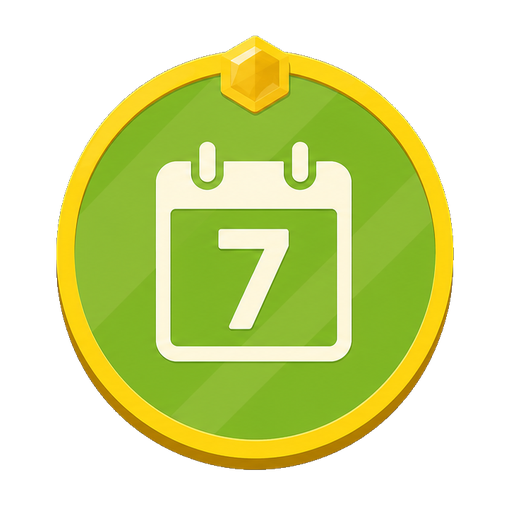
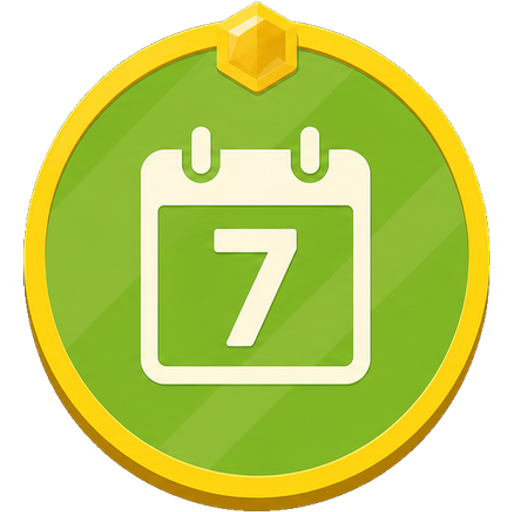
Centre and size-normalise all badge art (#74)
## The bug

Badges in the achievement trail render off-centre and at inconsistent
sizes — most visibly the purple **First Pika Login** badge and the
**Ready Early** badge, which lean in opposite directions when sitting
next to each other.

## Root cause

`achievements.tsx` renders each badge into a fixed circular slot, and
`styles.css` sizes it with `object-fit: contain`. That frames the image
by its **canvas**, not by the artwork inside it — so however the art
sits in its own PNG is exactly how it lands on screen. Measuring the
alpha bounding box of all sixteen badge PNGs on `main`:

| Badge | Horizontal offset | Vertical offset | Canvas fill |
|---|---|---|---|
| `badge-first-classroom-login-v1.png` | **−2.54%** | −0.59% | 85.16% |
| `badge-ready-early-v1.png` | **+2.05%** | −0.59% | 85.16% |
| `badge-checkin-7-day-v1.png` | −0.10% | +2.44% | 83.40% |
| `badge-lifetime-xp-1000-v1.png` | +2.44% | −2.54% | 83.40% |
| `badge-semester-halfway-v1.png` | 0% | −2.34% | **79.69%** |
| `badge-on-time-finish.png` | 0% | 0% | **100%** |

Three separate defects:

1. **Horizontal drift** — the two badges the report called out sit 2.5%
left and 2.1% right of centre, so the gap between them is ~4.6% of the
slot. Every other badge is within ±0.2%.
2. **Vertical drift** — offsets fall into two clusters, +2.4% and −2.5%.
3. **Size drift** — artwork fills anywhere from 79.7% to 85.2% of its
canvas. `badge-on-time-finish.png` is the real outlier: a 1254×1254
[…]

diff --git a/apps/web/src/lib/badge-art-framing.test.ts b/apps/web/src/lib/badge-art-framing.test.ts
@@ -1,0 +1,297 @@
+import assert from "node:assert/strict";
+import { readdirSync, readFileSync } from "node:fs";
+import { dirname, join } from "node:path";
+import test from "node:test";
+import { fileURLToPath } from "node:url";
+import { inflateSync } from "node:zlib";
+
+/**
+ * Badge art is rendered by the widget into a fixed *circular* slot with
+ * `object-fit: contain`, so the browser frames each badge by its canvas, not by
+ * the artwork inside it. Any badge whose artwork is off-centre in its own
+ * canvas, or that occupies a different share of it, renders visibly misaligned
+ * or mis-sized next to its neighbours in the achievement trail.
+ *
+ * Because the slot is a circle, what has to fill it is the artwork's enclosing
+ * circle rather than its bounding box. Sizing by the box leaves every disc
+ * ringed by slot background; sizing the box to the whole canvas would instead
+ * push the corners of the non-circular badges past the slot and clip them.
+ * Pinning the enclosing circle covers both: a disc meets the slot edge exactly,
+ * and a shape with protrusions touches it at its extremes with nothing cut off.
+ *
+ * These tests pin the framing contract every badge PNG must satisfy so new art
+ * cannot reintroduce that drift.
+ */
+
+// Resolved from this file rather than the process cwd, so the suite runs the
+// same way however it is invoked - `pnpm test`, turbo, or node pointed straight
+// at this one file from anywhere in the repo.
+const BADGE_DIR = join(
+  dirname(fileURLToPath(import.meta.url)),
+  "..",
+  "..",
+  "public",
+  "assets",
+  "badges",
+);
+
+/** Canonical badge canvas: square, and the same for every badge. */
+const CANVAS = 512;
+/** The artwork's enclosing circle must fill the canvas, matching the slot. */
+const TARGET_RADIUS = CANVAS / 2;
+/** Rounding slack, in canvas pixels, for the artwork's centre point. */
+const CENTRE_TOLERANCE_PX = 1;
+/**
+ * Slack, in canvas pixels, for the radius target. Slightly looser than
+ * centring: resampling spreads the artwork's outer edge by a fraction of a
+ * pixel either way, so the measured radius lands just above or below the mark.
+ */
+const RADIUS_TOLERANCE_PX = 2;
+/** Alpha above which a pixel counts as artwork rather than empty margin. */
+const ALPHA_THRESHOLD = 8;
+
+type DecodedAlpha = {
+  width: number;
+  height: number;
+  alpha: Uint8Array;
+};
+
+/**
+ * Minimal PNG reader: enough to recover the alpha channel of a non-interlaced
+ * 8-bit image. Kept local to the test so verifying art needs no image
+ * dependency in the app.
+ */
+function decodePngAlpha(buffer: Buffer): DecodedAlpha {
+  let offset = 8;
+  let width = 0;
+  let height = 0;
+  let bitDepth = 0;
+  let colorType = 0;
+  let interlace = 0;
+  const idat: Buffer[] = [];
+
+  while (offset < buffer.length) {
+    const length = buffer.readUInt32BE(offset);
+    const type = buffer.toString("ascii", offset + 4, offset + 8);
+    const data = buffer.subarray(offset + 8, offset + 8 + length);
+    if (type === "IHDR") {
+      width = data.readUInt32BE(0);
+      height = data.readUInt32BE(4);
+      bitDepth = data[8];
+      colorType = data[9];
+      interlace = data[12];
+    } else if (type === "IDAT") {
+      idat.push(data);
+    } else if (type === "IEND") {
+      break;
+    }
+    offset += 12 + length;
+  }
+
+  assert.equal(bitDepth, 8, "badge art must be 8 bits per channel");
+  assert.equal(interlace, 0, "badge art must not be interlaced");
+  assert.equal(colorType, 6, "badge art must be RGBA (colour type 6)");
+
+  const channels = 4;
+  const raw = inflateSync(Buffer.concat(idat));
+  const stride = width * channels;
+  // Each scanline is one filter byte plus its pixels. Check up front: a short
+  // stream would otherwise unfilter into NaN and store as transparent black,
+  // surfacing later as a confusing framing failure rather than a corrupt file.
+  assert.equal(
+    raw.length,
+    height * (stride + 1),
+    "badge art has a truncated or corrupt pixel stream",
+  );
+  const pixels = Buffer.alloc(height * stride);
+
+  let read = 0;
+  for (let y = 0; y < height; y++) {
+    const filter = raw[read];
+    read += 1;
+    const line = raw.subarray(read, read + stride);
+    read += stride;
+    const row = pixels.subarray(y * stride, (y + 1) * stride);
+    const prior = y > 0 ? pixels.subarray((y - 1) * stride, y * stride) : null;
+
+    for (let i = 0; i < stride; i++) {
+      const left = i >= channels ? row[i - channels] : 0;
+      const up = prior ? prior[i] : 0;
+      const upLeft = prior && i >= channels ? prior[i - channels] : 0;
+      let value = line[i];
+      if (filter === 1) {
+        value += left;
+      } else if (filter === 2) {
+        value += up;
+      } else if (filter === 3) {
+        value += (left + up) >> 1;
+      } else if (filter === 4) {
+        const predictor = left + up - upLeft;
+        const dLeft = Math.abs(predictor - left);
+        const dUp = Math.abs(predictor - up);
+        const dUpLeft = Math.abs(predictor - upLeft);
+        value +=
+          dLeft <= dUp && dLeft <= dUpLeft ? left : dUp <= dUpLeft ? up : upLeft;
+      }
+      row[i] = value & 0xff;
+    }
+  }
+
+  const alpha = new Uint8Array(width * height);
+  for (let i = 0; i < width * height; i++) {
+    alpha[i] = pixels[i * channels + 3];
+  }
+  return { width, height, alpha };
+}
+
+/** Bounding box of the visible artwork within the canvas. */
+function artworkBounds({ width, height, alpha }: DecodedAlpha) {
+  let minX = width;
+  let minY = height;
+  let maxX = -1;
+  let maxY = -1;
+  for (let y = 0; y < height; y++) {
+    for (let x = 0; x < width; x++) {
+      if (alpha[y * width + x] > ALPHA_THRESHOLD) {
+        if (x < minX) minX = x;
+        if (x > maxX) maxX = x;
+        if (y < minY) minY = y;
+        if (y > maxY) maxY = y;
+      }
+    }
+  }
+  assert.ok(maxX >= 0, "badge art must contain visible pixels");
+  return { minX, minY, maxX, maxY };
+}
+
+/**
+ * Distance from the centre of the canvas to the furthest visible pixel - the
+ * radius of the circle the artwork occupies, which is what the circular slot
+ * has to accommodate.
+ */
+function enclosingRadius({ width, height, alpha }: DecodedAlpha) {
+  const centreX = (width - 1) / 2;
+  const centreY = (height - 1) / 2;
+  let radius = 0;
+  for (let y = 0; y < height; y++) {
+    for (let x = 0; x < width; x++) {
+      if (alpha[y * width + x] <= ALPHA_THRESHOLD) continue;
+      const distance = Math.hypot(x - centreX, y - centreY);
+      if (distance > radius) radius = distance;
+    }
+  }
+  assert.ok(radius > 0, "badge art must contain visible pixels");
+  return radius;
+}
+
+/**
+ * Connected runs of visible pixels, largest first. Eight-connected, so a shape
+ * joined only at a diagonal still counts as one piece.
+ */
+function connectedComponents({ width, height, alpha }: DecodedAlpha) {
+  const seen = new Uint8Array(width * height);
+  const components: {
+    size: number;
+    minX: number;
+    minY: number;
+    maxX: number;
+    maxY: number;
+  }[] = [];
+
+  for (let start = 0; start < width * height; start++) {
+    if (seen[start] || alpha[start] <= ALPHA_THRESHOLD) continue;
+    const stack = [start];
+    seen[start] = 1;
+    let size = 0;
+    let minX = width;
+    let minY = height;
+    let maxX = -1;
+    let maxY = -1;
+
+    while (stack.length) {
+      const index = stack.pop() as number;
+      const x = index % width;
+      const y = (index / width) | 0;
+      size += 1;
+      if (x < minX) minX = x;
+      if (x > maxX) maxX = x;
+      if (y < minY) minY = y;
+      if (y > maxY) maxY = y;
+      for (let dy = -1; dy <= 1; dy++) {
+        for (let dx = -1; dx <= 1; dx++) {
+          const nx = x + dx;
+          const ny = y + dy;
+          if (nx < 0 || ny < 0 || nx >= width || ny >= height) continue;
+          const next = ny * width + nx;
+          if (seen[next] || alpha[next] <= ALPHA_THRESHOLD) continue;
+          seen[next] = 1;
+          stack.push(next);
+        }
+      }
+    }
+    components.push({ size, minX, minY, maxX, maxY });
+  }
+
+  return components.sort((a, b) => b.size - a.size);
+}
+
+const badgeFiles = readdirSync(BADGE_DIR)
+  .filter((name) => name.endsWith(".png"))
+  .sort();
+
+test("there is badge art to check", () => {
+  assert.ok(badgeFiles.length > 0, `no badge PNGs found in ${BADGE_DIR}`);
+});
+
+for (const file of badgeFiles) {
+  test(`${file} is framed on the canonical badge canvas`, () => {
+    const image = decodePngAlpha(readFileSync(join(BADGE_DIR, file)));
+    assert.equal(image.width, CANVAS, `${file} canvas width`);
+    assert.equal(image.height, CANVAS, `${file} canvas height`);
+  });
+
+  test(`${file} artwork is centred in its canvas`, () => {
+    const image = decodePngAlpha(readFileSync(join(BADGE_DIR, file)));
+    const bounds = artworkBounds(image);
+    const offsetX = (bounds.minX + bounds.maxX) / 2 - (image.width - 1) / 2;
+    const offsetY = (bounds.minY + bounds.maxY) / 2 - (image.height - 1) / 2;
+    assert.ok(
+      Math.abs(offsetX) <= CENTRE_TOLERANCE_PX,
+      `${file} artwork is ${offsetX.toFixed(1)}px off centre horizontally`,
+    );
+    assert.ok(
+      Math.abs(offsetY) <= CENTRE_TOLERANCE_PX,
+      `${file} artwork is ${offsetY.toFixed(1)}px off centre vertically`,
+    );
+  });
+
+  test(`${file} has no artwork detached from its body`, () => {
+    const image = decodePngAlpha(readFileSync(join(BADGE_DIR, file)));
+    const [body, ...rest] = connectedComponents(image);
+    const detached = rest.filter(
+      (component) =>
+        component.maxX < body.minX ||
+        component.minX > body.maxX ||
+        component.maxY < body.minY ||
+        component.minY > body.maxY,
+    );
+    assert.deepEqual(
+      detached.map(
+        (c) => `${c.maxX - c.minX + 1}x${c.maxY - c.minY + 1} at ${c.minX},${c.minY}`,
+      ),
+      [],
+      `${file} has artwork sitting outside its body, which drags the bounding box out and shrinks the badge`,
+    );
+  });
+
+  test(`${file} artwork fills the circular slot`, () => {
+    const image = decodePngAlpha(readFileSync(join(BADGE_DIR, file)));
+    const radius = enclosingRadius(image);
+    assert.ok(
+      Math.abs(radius - TARGET_RADIUS) <= RADIUS_TOLERANCE_PX,
+      `${file} artwork reaches ${radius.toFixed(1)}px from centre, expected ` +
+        `${TARGET_RADIUS}px (±${RADIUS_TOLERANCE_PX}). Short of it leaves a ring of ` +
+        `slot background around the badge; past it, the slot clips the artwork.`,
+    );
+  });
+}

diff --git a/docs/dev-workflow.md b/docs/dev-workflow.md
@@ -228,6 +228,31 @@ apps/web/public/assets/badges/  — achievement art
   resized on demand, and downscale before shipping anything to the widget.
 - Asset changes ship in their own PR — never bundled with game logic.
 
+#### Badge framing contract
+
+The widget drops each badge into a fixed **circular** slot with `object-fit: contain`, so
+the browser frames the art by its **canvas**, not by the artwork inside it. Art that sits
+off-centre in its own canvas, or that occupies a different share of it, renders visibly
+misaligned or mis-sized next to its neighbours in the achievement trail. Every file in
+`apps/web/public/assets/badges/` must therefore be:
+
+- a 512×512 RGBA PNG (transparent margin, never an opaque backdrop square),
+- centred — the artwork's alpha bounding box centred on the canvas,
+- uniformly sized — the artwork's **enclosing circle** filling that canvas, and
+- whole — no detached specks sitting outside the artwork's body.
+
+Size by the enclosing circle, not the bounding box. The slot is round: sizing by the box
+leaves every circular badge ringed by slot background, while stretching the box to the
+whole canvas pushes the corners of the non-circular badges past the slot and clips them.
+Pinning the enclosing circle covers both — a disc meets the slot edge exactly, and a shape
+with protrusions touches it at its extremes with nothing cut off.
+
+Reframe from the original art. Never compensate in CSS: the slot is shared by every badge,
+so scaling there to fix one shape clips the others.
+
+`apps/web/src/lib/badge-art-framing.test.ts` enforces all four, so new badge art fails CI
+until it is framed to match.
+
 ### Where assets live, and when that changes
 
 In the repo through M2 — free, no infrastructure, and art deploys atomically with the code that
